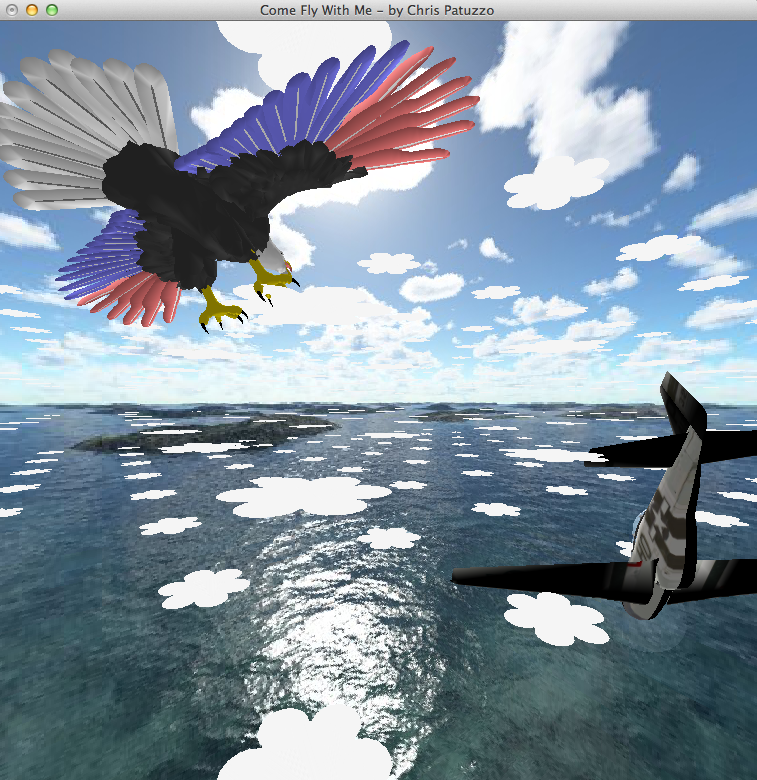
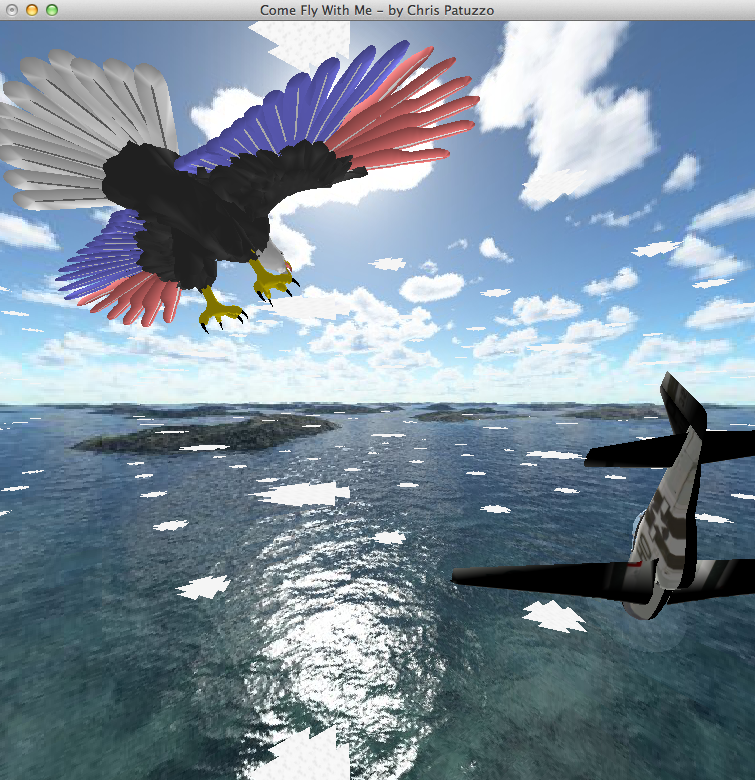
Optimise for a 60 FPS framerate

diff --git a/main.cpp b/main.cpp
@@ -11,13 +11,13 @@
 #define CAMERA_MOMENTUM 0.1
 
 //Cloud plane configuration constants.
-#define CLOUDS 16
-#define CLOUD_SECTIONS 16
+#define CLOUDS 12
+#define CLOUD_SECTIONS 3
 #define CLOUD_INNER_PLANES 0.2
 #define CLOUD_OUTER_PLANES 0.8
 
 //Frame rate, lowering the frame rate may improve performance on older computers.
-#define FPS 25
+#define FPS 60
 
 //Other global constants.
 #define PI 3.141592
@@ -228,19 +228,19 @@ void calculateCloudPlane() {
   for (int i = 0; i < 7; i++) {
     switch (i) {
       //Scale everything down quite a bit, we only want a light covering.
-      case 0: xScale = 0.125; zScale = 0.125; xTrans = 0; zTrans = 0;
+      case 0: xScale = 0.0625; zScale = 0.0625; xTrans = 0; zTrans = 0;
       break;
-      case 1: xScale = 0.0625; zScale = 0.0625; xTrans = 0.125; zTrans = 0;
+      case 1: xScale = 0.0625; zScale = 0.0625; xTrans = 0.0625; zTrans = 0;
       break;
-      case 2: xScale = 0.0625; zScale = 0.0625; xTrans = -0.125; zTrans = 0;
+      case 2: xScale = 0.0625; zScale = 0.0625; xTrans = -0.0625; zTrans = 0;
       break;
-      case 3: xScale = 0.0625; zScale = 0.0625; xTrans = 0.125 * cos(60 * PI / 180); zTrans = 0.125 * sin(60 * PI / 180);
+      case 3: xScale = 0.0625; zScale = 0.0625; xTrans = 0.0625 * cos(60 * PI / 180); zTrans = 0.0625 * sin(60 * PI / 180);
       break;
-      case 4: xScale = 0.0625; zScale = 0.0625; xTrans = 0.125 * cos(120 * PI / 180); zTrans = 0.125 * sin(120 * PI / 180);
+      case 4: xScale = 0.0625; zScale = 0.0625; xTrans = 0.0625 * cos(120 * PI / 180); zTrans = 0.0625 * sin(120 * PI / 180);
       break;
-      case 5: xScale = 0.0625; zScale = 0.0625; xTrans = 0.125 * cos(240 * PI / 180); zTrans = 0.125 * sin(240 * PI / 180);
+      case 5: xScale = 0.0625; zScale = 0.0625; xTrans = 0.0625 * cos(240 * PI / 180); zTrans = 0.0625 * sin(240 * PI / 180);
       break;
-      case 6: xScale = 0.0625; zScale = 0.0625; xTrans = 0.125 * cos(300 * PI / 180); zTrans = 0.125 * sin(300 * PI / 180);
+      case 6: xScale = 0.0625; zScale = 0.0625; xTrans = 0.0625 * cos(300 * PI / 180); zTrans = 0.0625 * sin(300 * PI / 180);
       break;
     }
     for (int j = 0; j < CLOUD_SECTIONS; j++) {
@@ -413,8 +413,8 @@ void drawScene() {
 
   //Set the animation control variables.
   if (!paused) frame++;
-  int ticks = frame % 720;
-  if (frame % 720 == 0) {
+  int ticks = frame % 1440;
+  if (frame % 1440 == 0) {
     ticks = 0;
 
     //Reset animation object positions and rotations.
@@ -438,34 +438,35 @@ void drawScene() {
   if (!paused) {
     //Airplane transformation events.
     //Constant swaying.
-    planeRotZ -= cos(ticks * 4 * PI / 180);
-    planePostY -= 0.02 * cos(ticks * 2 * PI / 180);
+    planeRotZ -= 0.5 * cos(ticks * 2 * PI / 180);
+    planePostY -= 0.01 * cos(ticks * PI / 180);
 
     //Spin upside-down.
-    if (ticks >= 90 && ticks < 180) planeRotZ -= PI * sin(ticks * 2 * PI / 180);
+    if (ticks >= 180 && ticks < 360) planeRotZ -= PI * 0.5 * sin(ticks * PI / 180);
 
     //Spin back round.
-    if (ticks >= 180 && ticks < 270) planeRotZ += PI * sin(ticks * 2 * PI / 180);
+    if (ticks >= 360 && ticks < 540) planeRotZ += PI * 0.5 * sin(ticks * PI / 180);
 
     //Dive.
-    if (ticks >= 360 && ticks < 450) {
-      planeRotX -= 0.5 * PI * sin(ticks * 4 * PI / 180);
-      planePriorY -= 0.01 * PI * sin(ticks * 2 * PI / 180);
-      planePriorZ -= 0.02 * PI * sin(ticks * PI / 180);
+    if (ticks >= 720 && ticks < 900) {
+      planeRotX -= 0.25 * PI * sin(ticks * 2 * PI / 180);
+      planePriorY -= 0.005 * PI * sin(ticks * PI / 180);
+      planePriorZ -= 0.01 * PI * sin(ticks * 0.5 * PI / 180);
     }
 
     //Loop-the-loop
-    if (ticks >= 450 && ticks < 630) {
-      planeRotX += 2;
-      planePriorY += 0.03 * PI * sin((ticks - 90) * 2 * PI / 180);
-      planePriorZ -= 0.03 * PI * cos((ticks - 90) * 2 * PI / 180);
+    if (ticks >= 900 && ticks < 1220) {
+      planeRotX += 1;
+      planePriorY += 0.015 * PI * sin((ticks - 180) * PI / 180);
+      planePriorZ -= 0.015 * PI * cos((ticks - 180) * PI / 180);
     }
 
     //Reset position.
-    if (ticks >= 630 && ticks < 720) {
-      planeRotX -= 0.25 * PI * sin(ticks * 4 * PI / 180);
-      planePriorY -= 0.01 * PI * sin(ticks * 2 * PI / 180);
-      planePriorZ -= 0.02 * PI * sin(ticks * PI / 180);
+    if (ticks >= 1220 && ticks < 1440) {
+      // These values were found by minimising errors using binary division.
+      planeRotX -= 0.1262345 * PI * sin(ticks * PI / 180);
+      planePriorY -= 0.002379563 * PI * sin(ticks * 0.5 * PI / 180);
+      planePriorZ -= 0.003826425 * PI * sin(ticks * 0.5 * PI / 180);
     }
 
     //Eagle transformation events.
@@ -474,46 +475,46 @@ void drawScene() {
     eaglePriorZ = 0.4;
 
     //Set start position over left wing.
-    if (ticks >= 0 && ticks < 90) {
+    if (ticks >= 0 && ticks < 180) {
       eaglePriorX = -0.5;
       eaglePriorY = 0.03;
       eaglePriorZ = -0.1;
     }
 
     //Move a little with the wing.
-    if (ticks >= 0 && ticks < 45) {
-      eagleRotZ -= cos(ticks * 4 * PI / 180);
-      eaglePostY -= 0.018 * sin(ticks * 4 * PI / 180);
+    if (ticks >= 0 && ticks < 90) {
+      eagleRotZ -= cos(ticks * 2 * PI / 180);
+      eaglePostY -= 0.009 * sin(ticks * 2 * PI / 180);
     }
 
     //Move back, up and left.
-    if (ticks >= 45 && ticks < 90) {
-      eaglePriorX -= (float)0.5 / 45 * (ticks - 45);
-      eaglePriorZ += (float)0.5 / 45 * (ticks - 45);
-      eaglePostY += 0.018 * sin((ticks - 45) * 4 * PI / 180);
+    if (ticks >= 90 && ticks < 180) {
+      eaglePriorX -= (float)0.5 / 90 * (ticks - 90);
+      eaglePriorZ += (float)0.5 / 90 * (ticks - 90);
+      eaglePostY += 0.009 * sin((ticks - 90) * 2 * PI / 180);
     }
 
     //Swaying.
-    if (ticks >= 45 && ticks < 675) {
-      eagleRotZ -= cos((ticks + 45) * 2 * PI / 180);
-      eaglePostY -= 0.02 * cos((ticks + 45) * 4 * PI / 180);
+    if (ticks >= 90 && ticks < 1350) {
+      eagleRotZ -= 0.6 * cos((ticks + 90) * PI / 180);
+      eaglePostY -= 0.01 * cos((ticks + 90) * 2 * PI / 180);
     }
 
     //Avoid plane collision.
-    if (ticks >= 180 && ticks < 270) eagleRotZ += 0.5 * PI * sin(ticks * 4 * PI / 180);
+    if (ticks >= 360 && ticks < 540) eagleRotZ += 0.25 * PI * sin(ticks * 2 * PI / 180);
 
     //Glide from side to side.
-    if (ticks >= 360 && ticks < 540) eaglePriorX += 0.4 * PI * sin(ticks * PI / 180);
+    if (ticks >= 720 && ticks < 1080) eaglePriorX += 0.4 * PI * sin(ticks * 0.5 * PI / 180);
 
     //Move back to start position.
-    if (ticks >= 675 && ticks < 720) {
-      eaglePriorX += (float)0.5 / 45 * (ticks - 675);
-      eaglePriorZ -= (float)0.5 / 45 * (ticks - 675);
+    if (ticks >= 1350 && ticks < 1440) {
+      eaglePriorX += (float)0.5 / 90 * (ticks - 1350);
+      eaglePriorZ -= (float)0.5 / 90 * (ticks - 1350);
     }
 
     //Avoid plane collision.
-    if (ticks >= 700 && ticks < 710) eaglePriorY += 0.01;
-    if (ticks >= 710 && ticks < 720) eaglePriorY -= 0.01;
+    if (ticks >= 1400 && ticks < 1420) eaglePriorY += 0.01;
+    if (ticks >= 1420 && ticks < 1440) eaglePriorY -= 0.01;
   }
 
   //Apply the transformations then draw the airplane.
